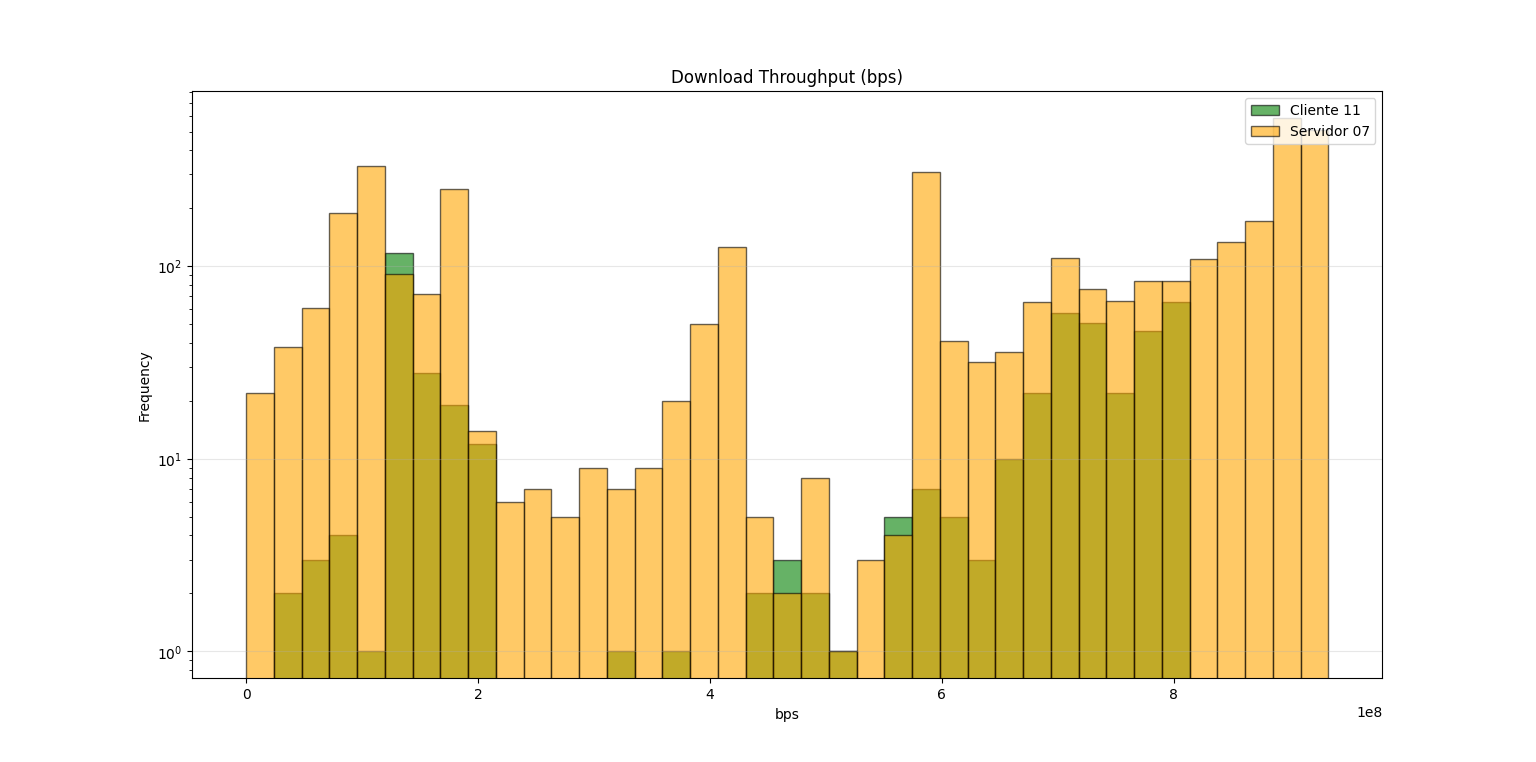
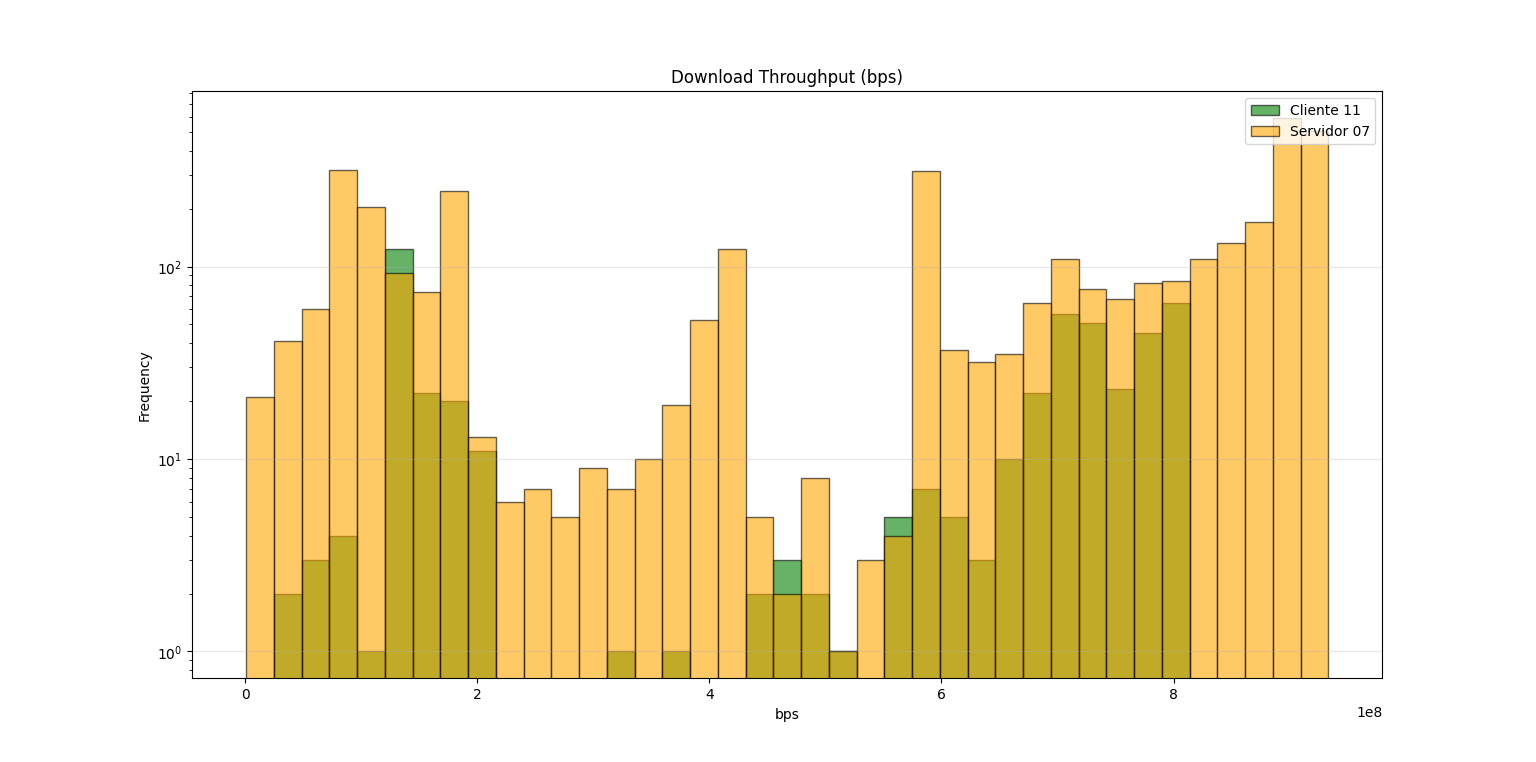
histograms done. Starting boxplots

diff --git a/trabalho_parte1/graph_maker.py b/trabalho_parte1/graph_maker.py
@@ -94,5 +94,3 @@ def histogram_double(data1, data2, binNum, title, xline, yline, graphSize=(12,6)
 #histogram_double(cli11pl, ser07pl, 40, "RTT Download (sec)", "sec", "Frequency", (16,8))
 #histogram_double(cli11rttd, ser07rttd, 40, "RTT Upload (sec)", "sec", "Frequency", (16,8))
 #histogram_double(cli11rttu, ser07rttu, 40, "Packet Loss (%)", "percent", "Frequency", (16,8))
-
-print(ser07rttd)
